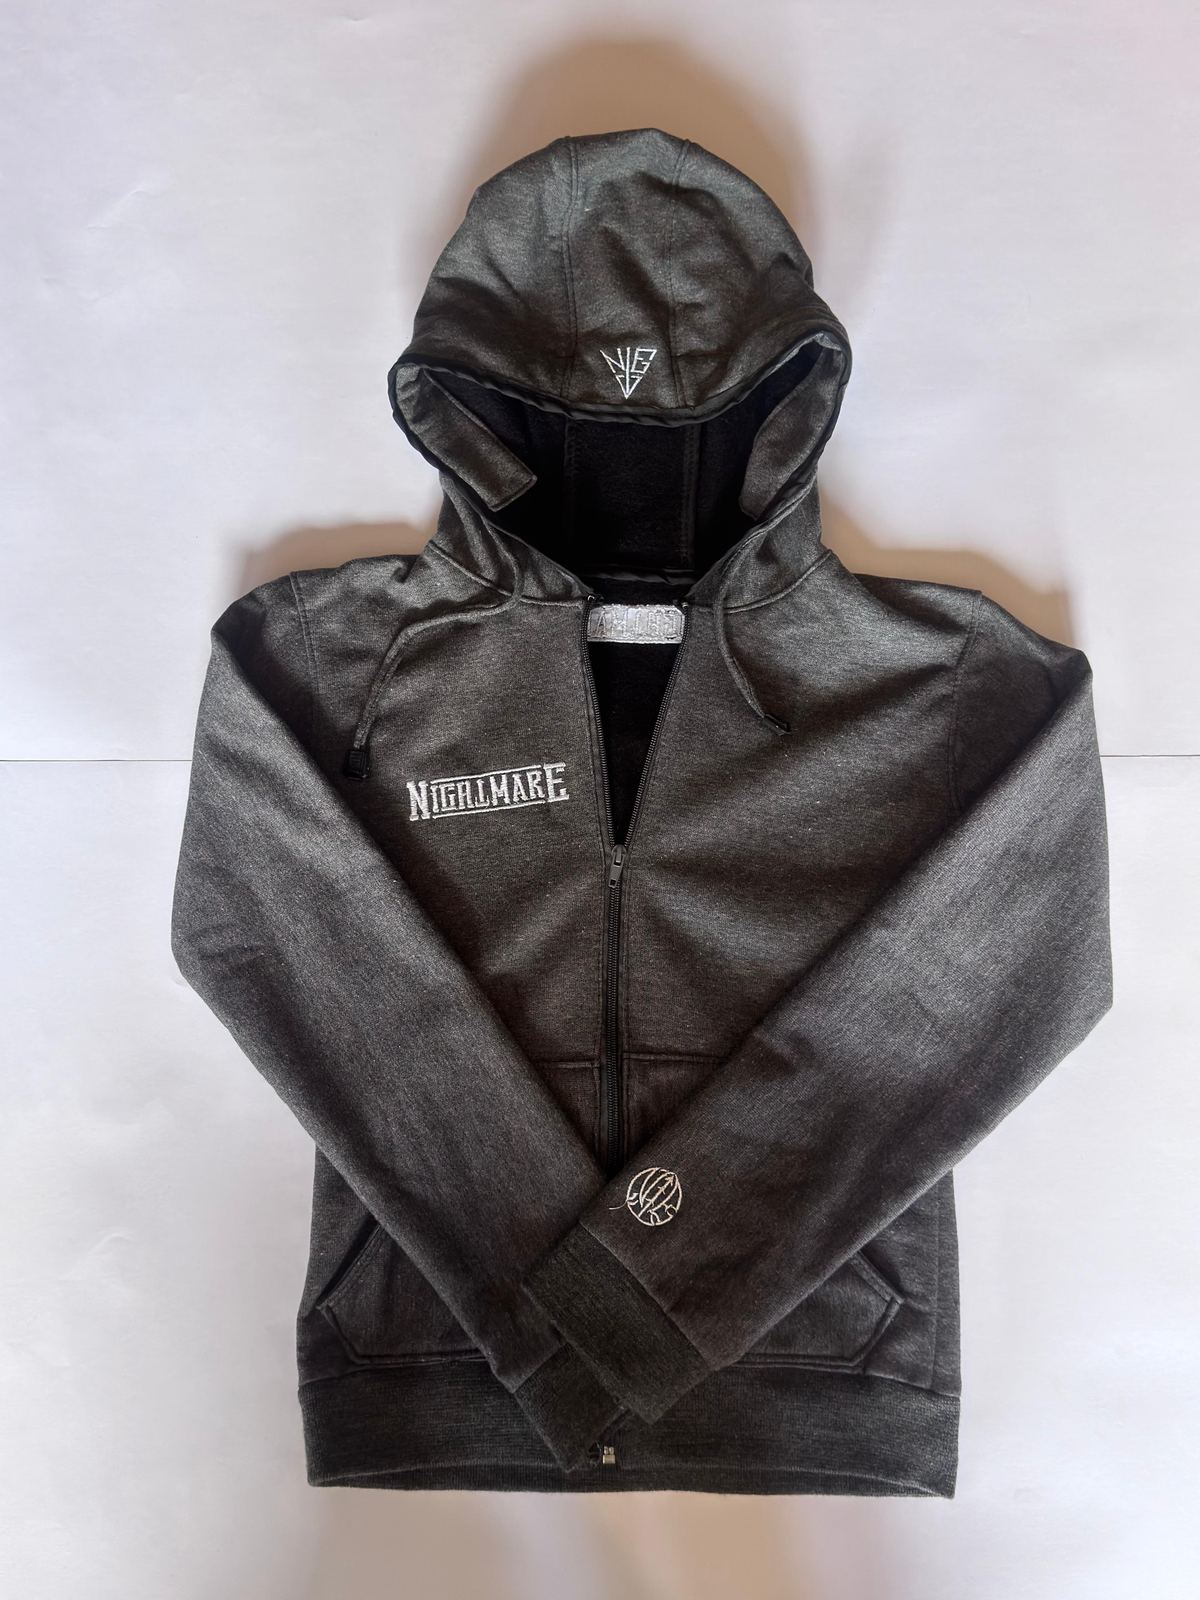
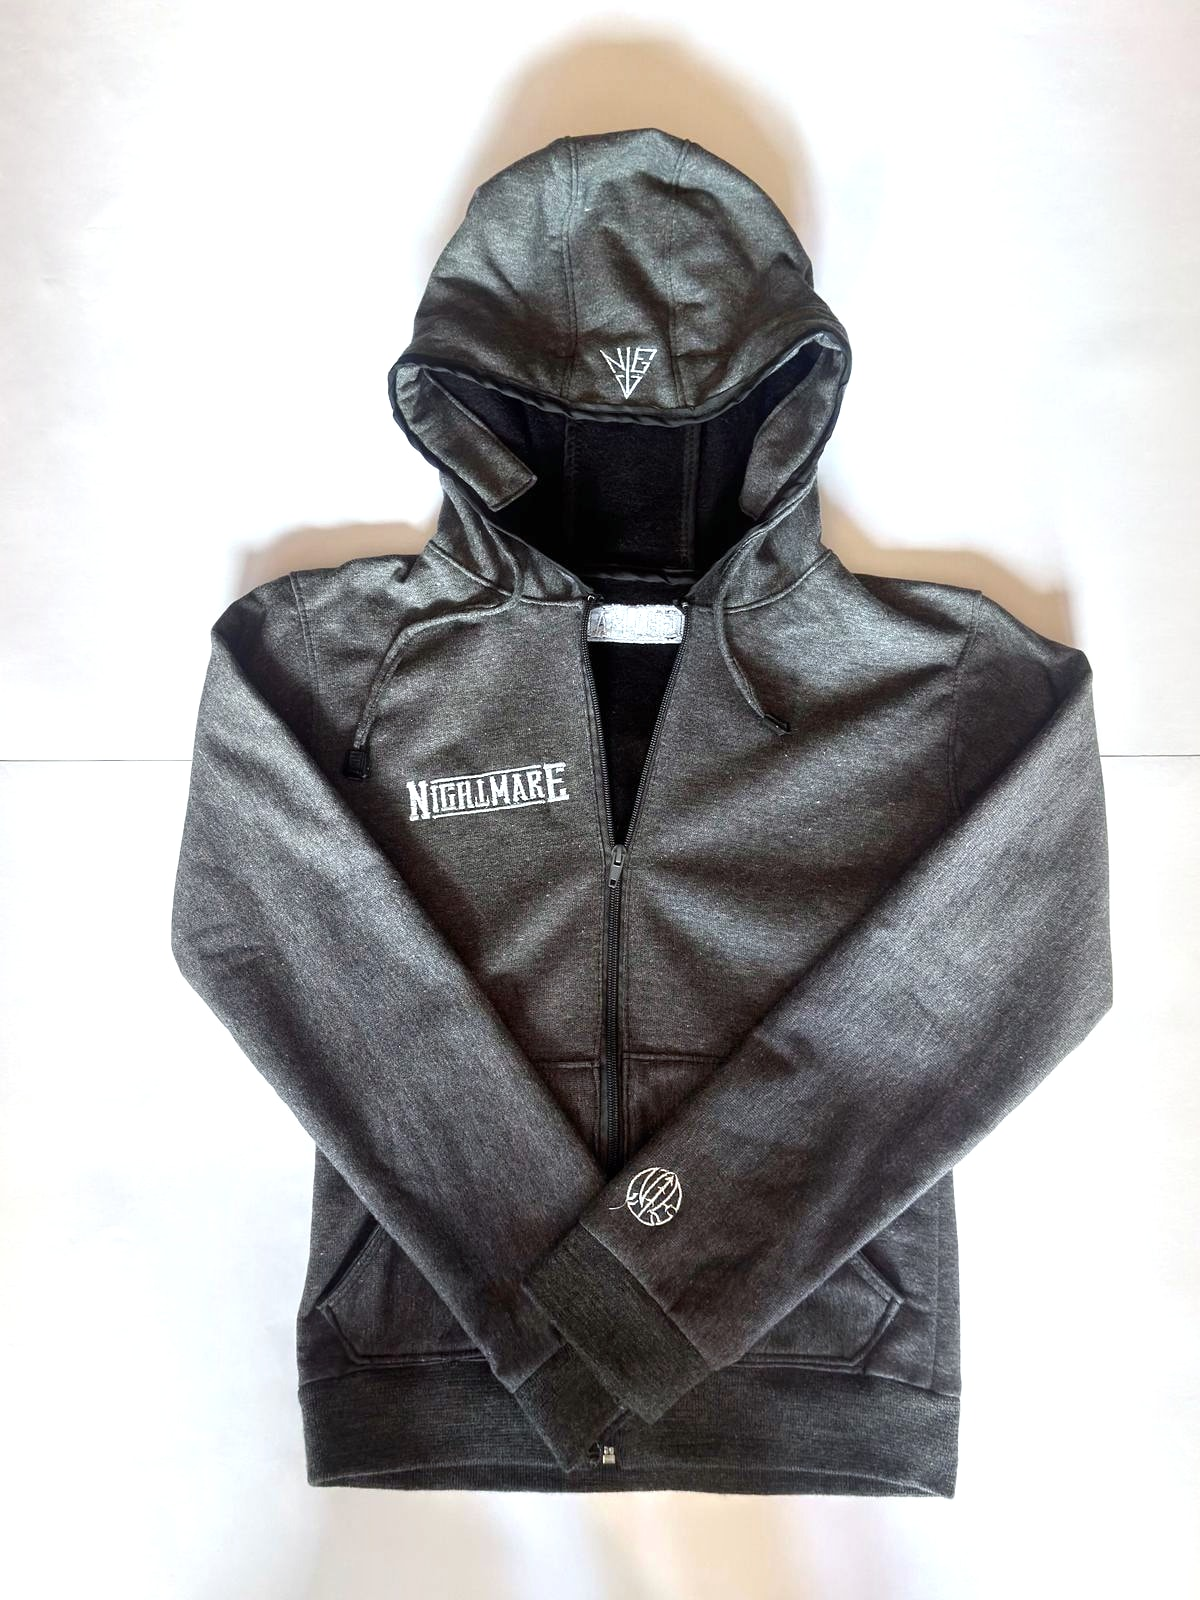
Emparejar fondo blanco de fotos de ropa con el resto del catalogo
Las fotos de repuestos son cutouts de estudio con fondo blanco puro; las
tarjetas y la ficha de producto pintan la plaqueta de blanco (styles.css)
asumiendo justo eso. Las 29 fotos de ropa recien cargadas venian de
celular sobre papel gris/rosado, viñeteadas y con pliegues visibles, asi
que se veian como una caja en vez de fundirse en la tarjeta.

- tools/whiten-bg.mjs: mide el color real SOLO en el marco exterior de la
  foto (fondo garantizado, ya que la prenda llena casi todo el cuadro y
  mirar toda la imagen confunde brillos del cierre/estampado con "fondo").
  Ajusta ahi una superficie suave por canal de color (R/G/B) y la usa para
  aclarar y neutralizar la foto pixel a pixel, sin tocar el contraste
  propio de la prenda. No es un cutout con IA: sube el tono del papel a
  blanco, no recorta el fondo.
- package.json: agrega "sharp" (unica dependencia npm del repo, solo para
  tools/, el sitio sigue sin build step).
- Aplicada a las 29 fotos de los 17 productos de Ropa cargados antes.
- README: documenta el uso de la herramienta.

Claude-Session: https://claude.ai/code/session_01XwTpnSv8qSV4TUvMczhz8i

diff --git a/README.md b/README.md
@@ -118,6 +118,16 @@ un token de GitHub real con acceso de escritura a este repo.
 - **Catálogo:** editable a mano en `assets/js/products-data.js`, pero el
   flujo real es el panel admin (mantiene slugs/SKUs únicos, sube fotos,
   regenera las páginas de producto y el sitemap).
+- **Fondo blanco parejo en fotos de producto:** las tarjetas y la ficha
+  pintan la plaqueta de blanco puro (`assets/css/styles.css`) porque las
+  fotos de repuestos son cutouts de estudio con fondo blanco. Una foto de
+  celular sobre papel (como las de ropa) trae el papel gris/tinturado y
+  viñeteado, y se ve como una caja en vez de fundirse. `npm install` (una
+  sola vez, instala `sharp`) y despues `node tools/whiten-bg.mjs
+  <foto.jpg>...` la empareja: mide el color real en el marco exterior de
+  la foto (fondo garantizado) y aclara/neutraliza el resto a partir de ahí,
+  sin tocar el contraste propio de la prenda. `--preview` escribe
+  `foto.preview.jpg` en vez de pisar el original.
 - **Colores / tipografía / estilos:** variables CSS en `assets/css/styles.css` (`:root`).
 - **Textos del hero/categorías:** pestaña "Contenido del sitio" en el admin,
   o directo en `data/site-content.json`.
